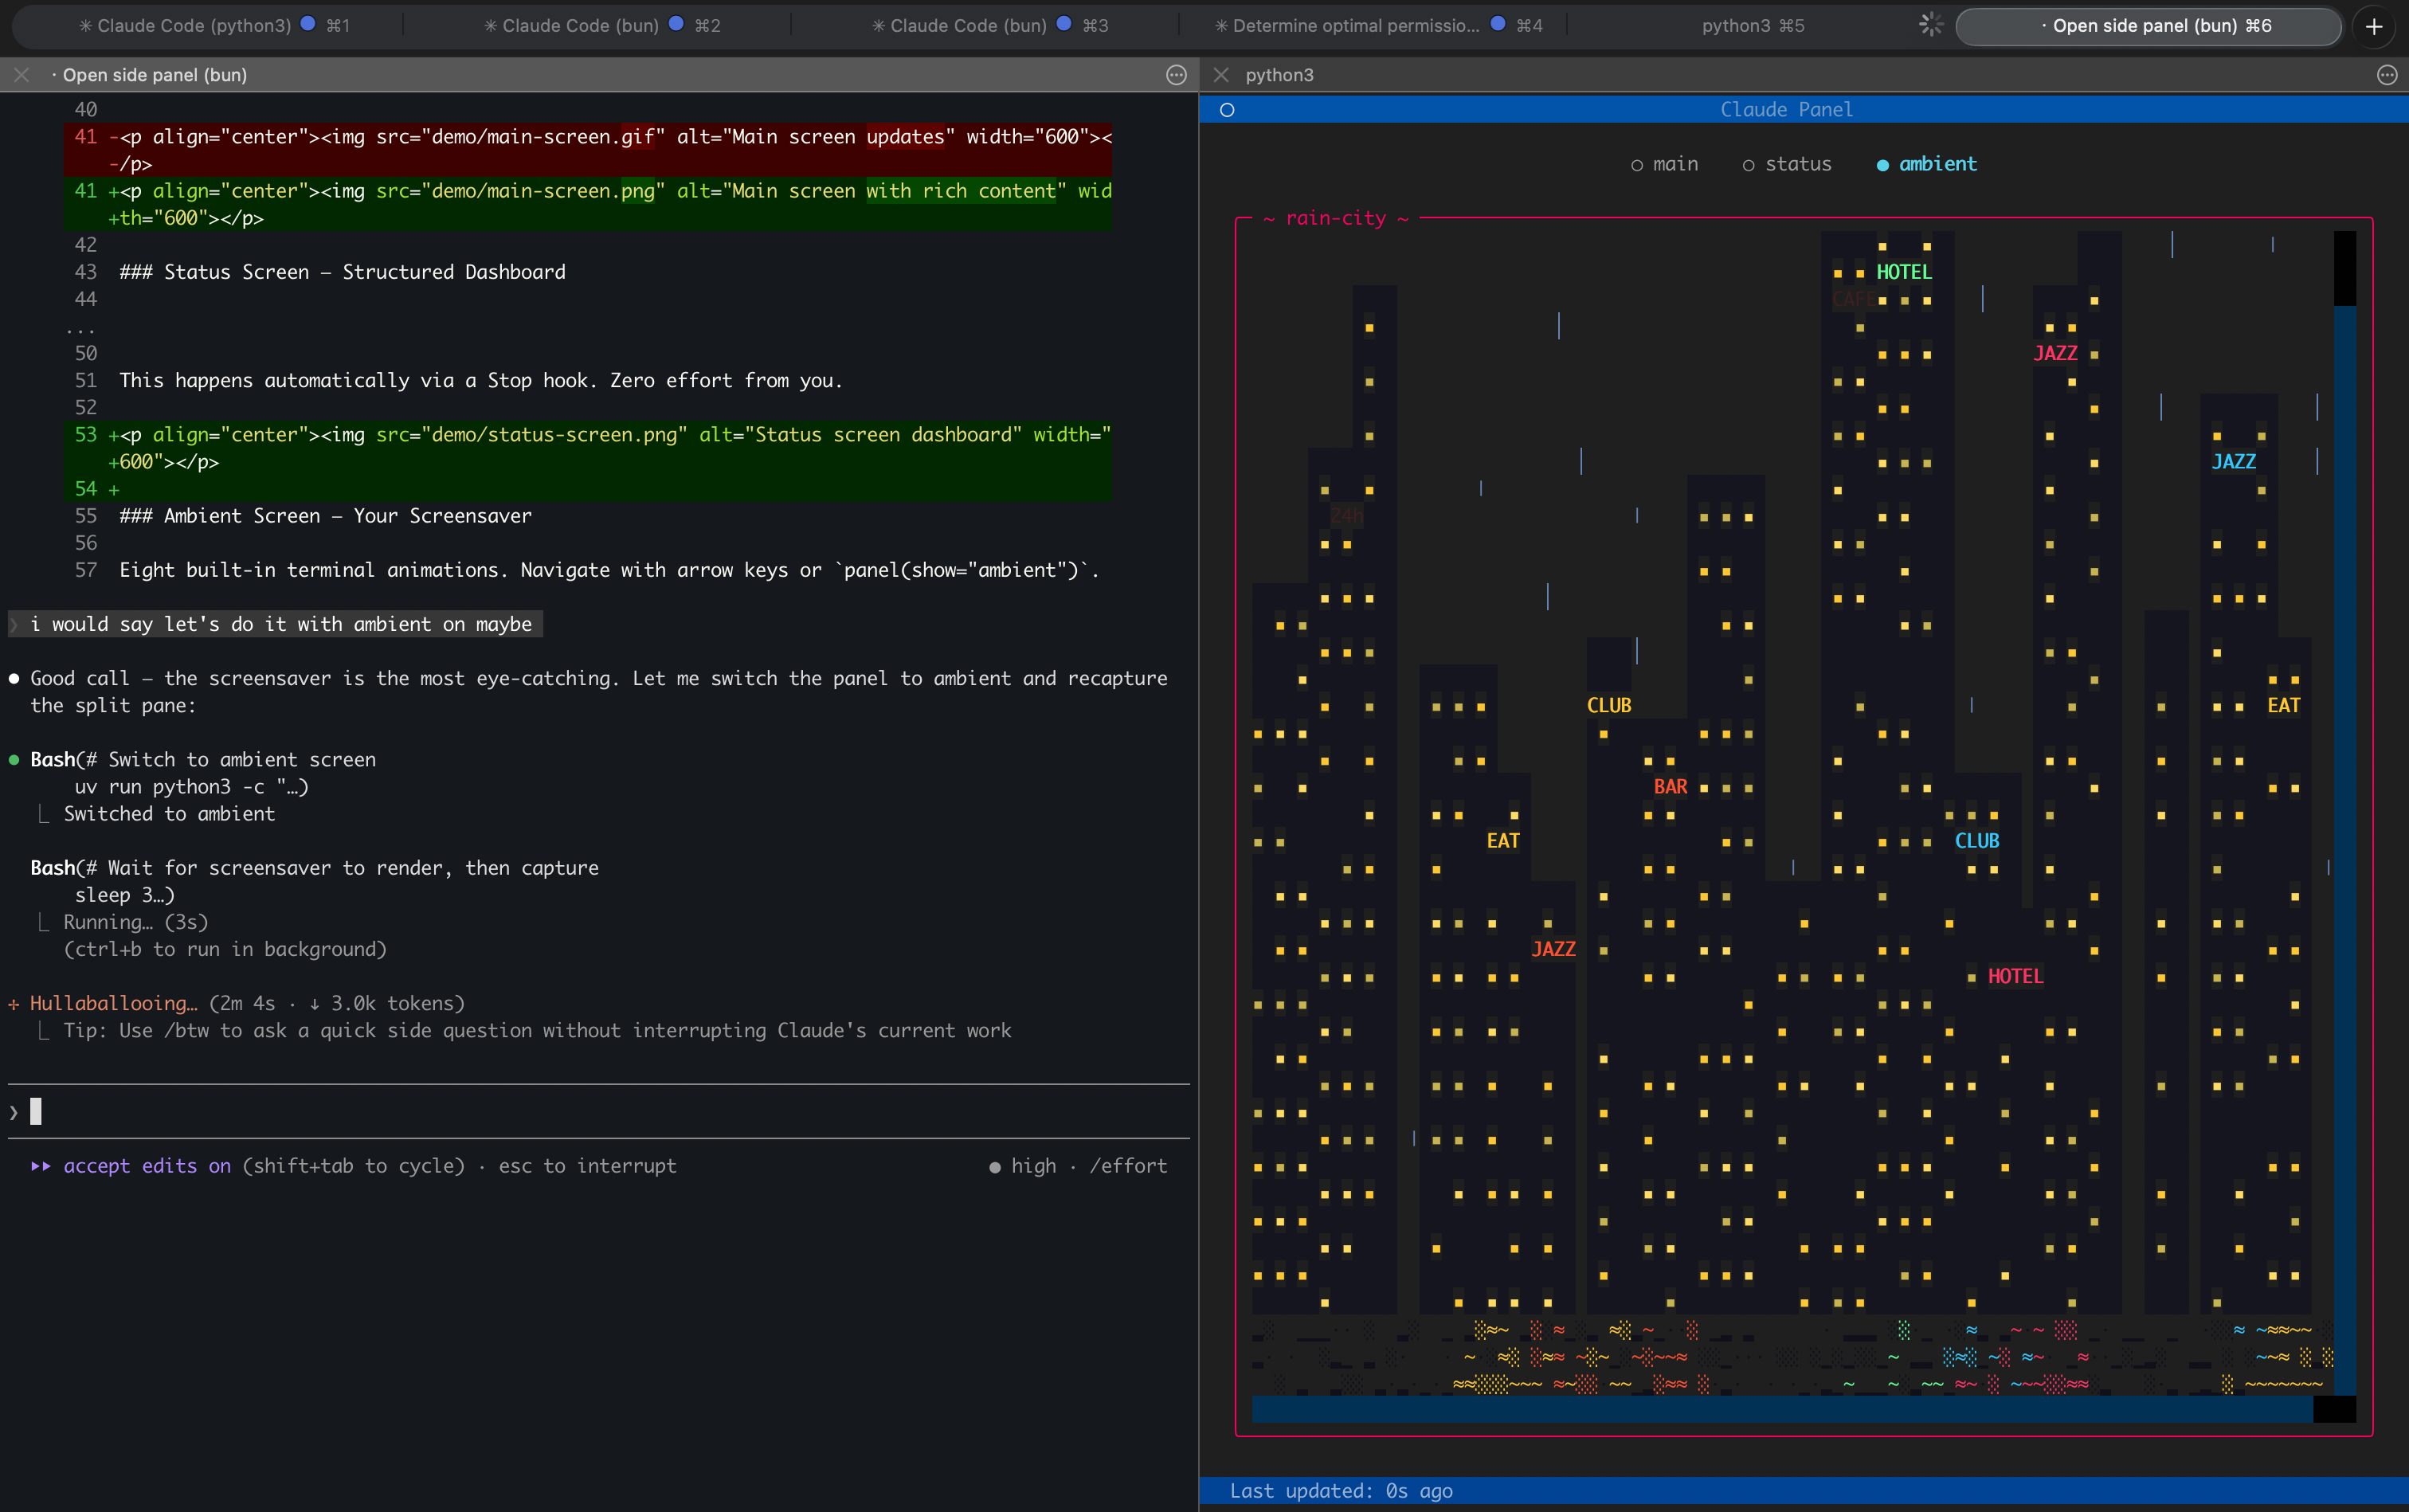
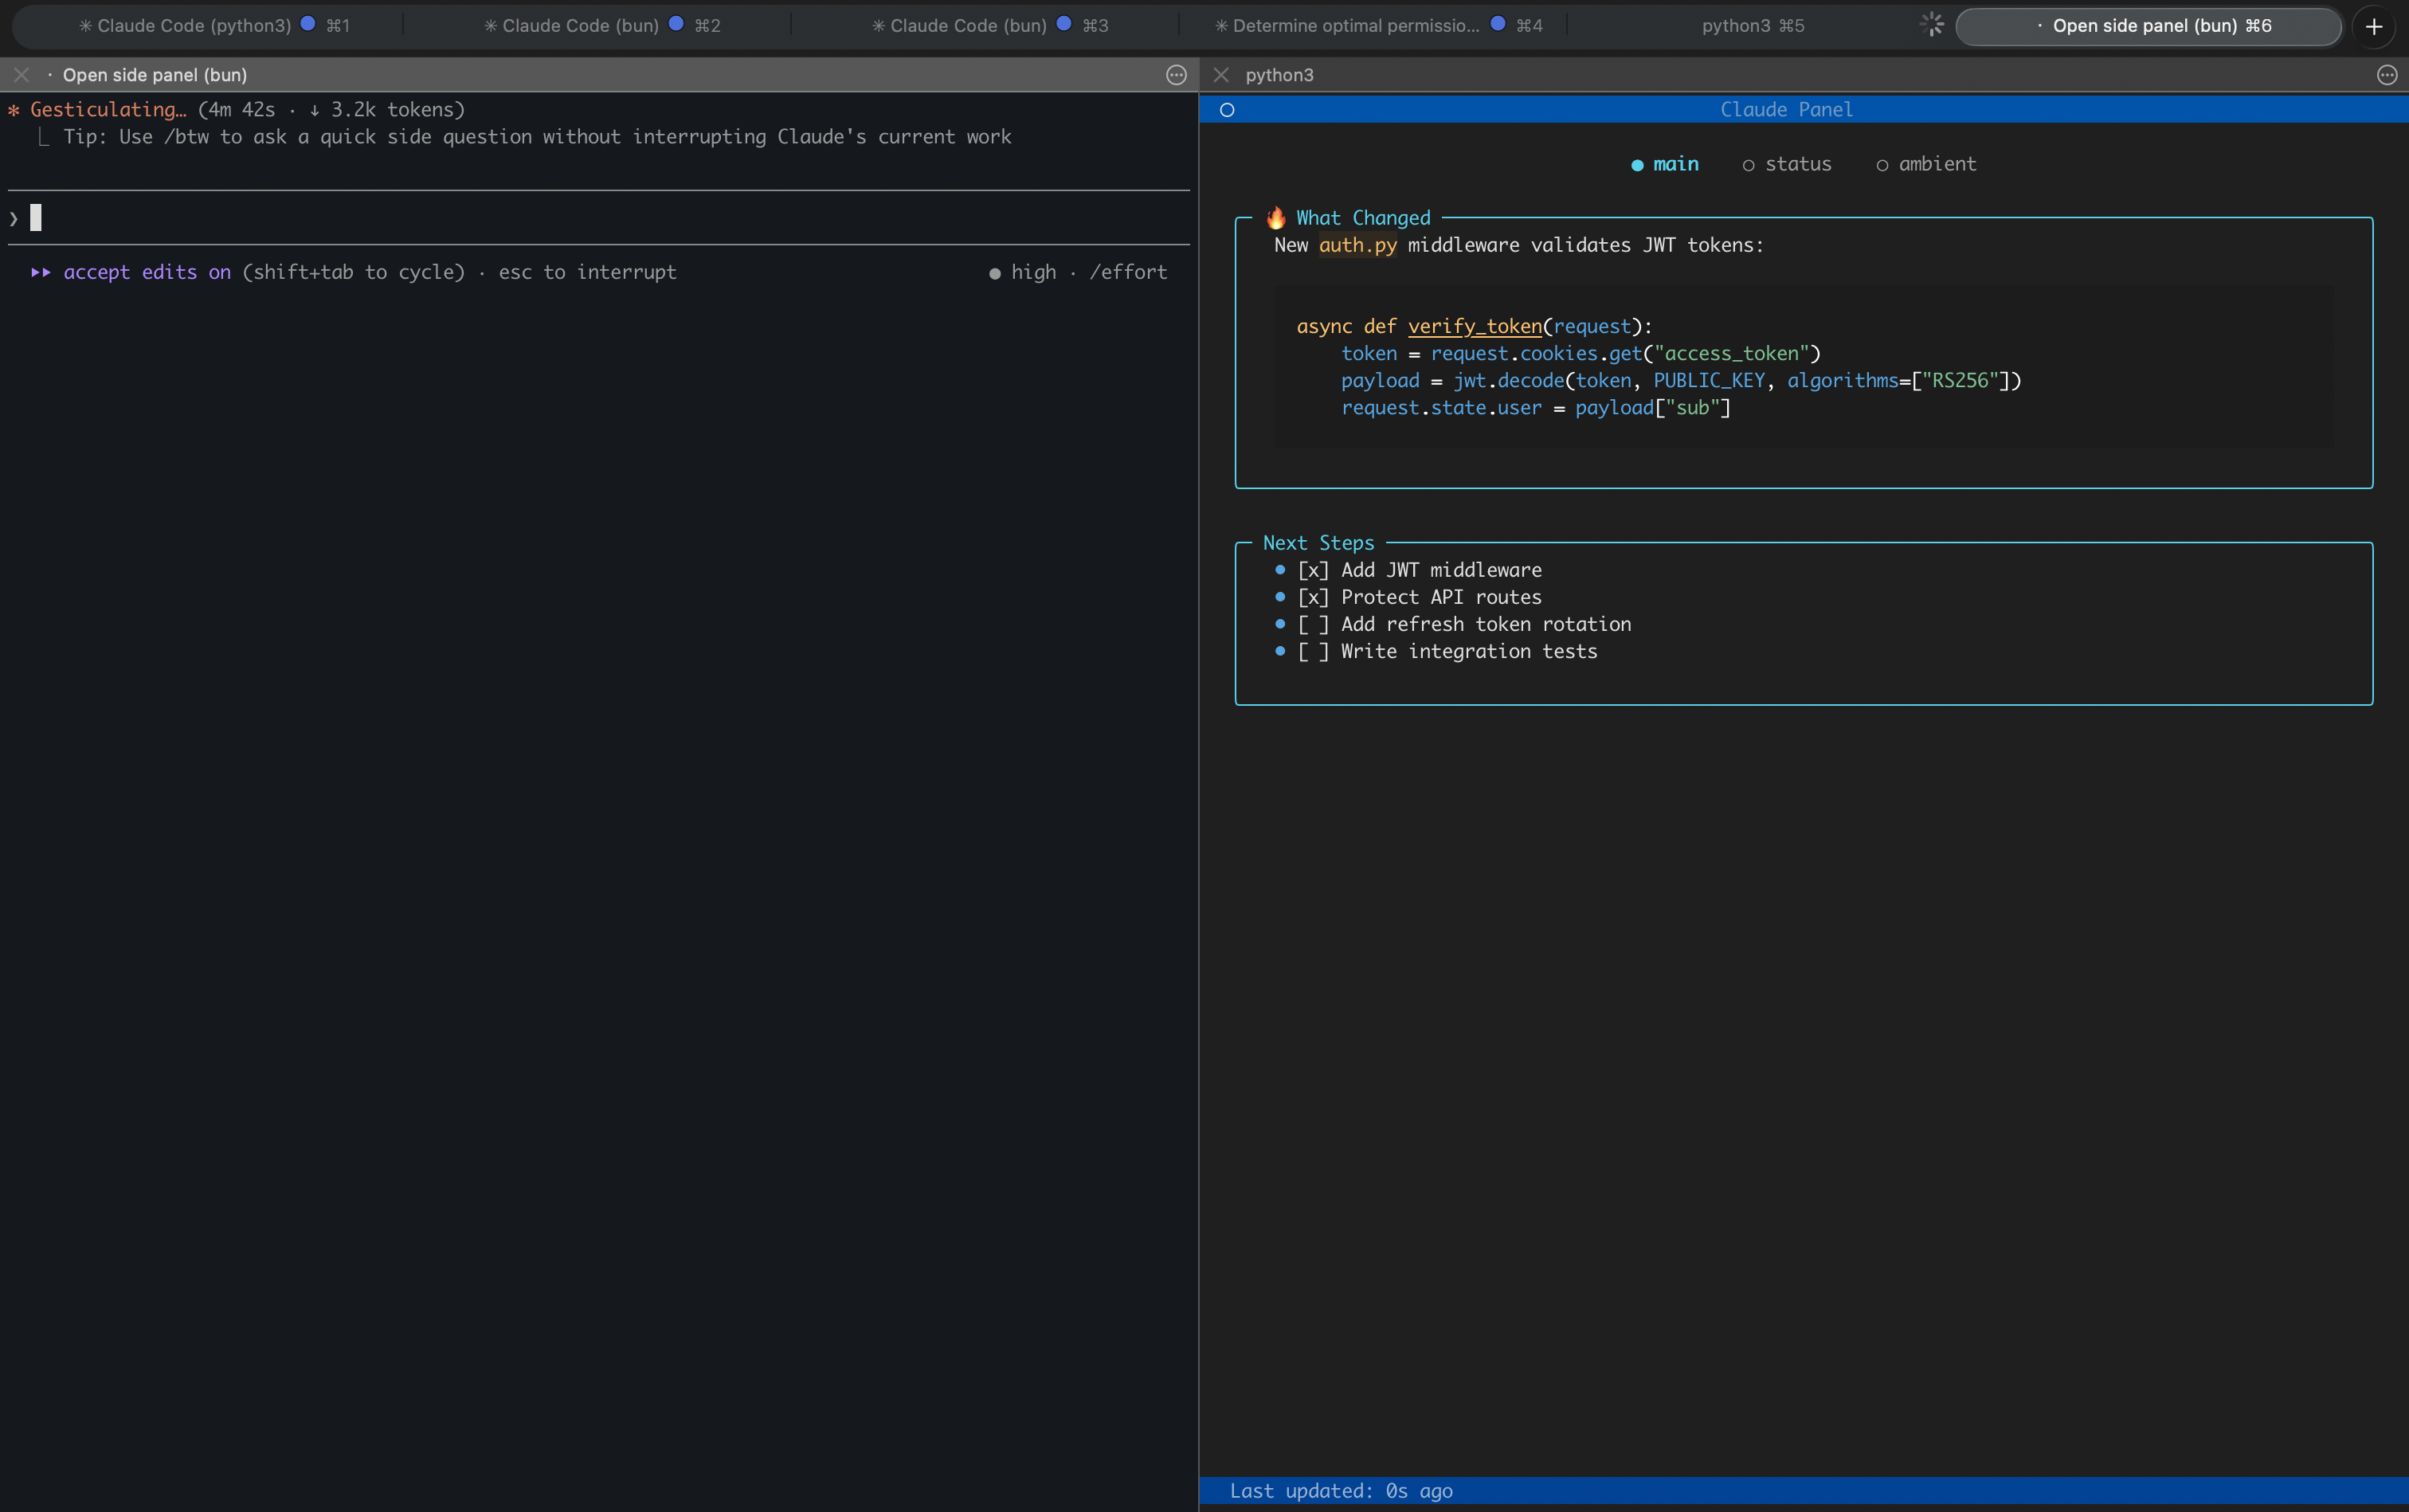
docs: hero screenshot with main screen content, animated screensaver GIFs, clean layout

diff --git a/README.md b/README.md
@@ -11,69 +11,36 @@
   <a href="https://github.com/alex-radaev/claude-panel/stargazers"><img alt="Stars" src="https://img.shields.io/github/stars/alex-radaev/claude-panel"></a>
 </p>
 
-<img align="right" width="45%" src="demo/screensavers.gif" alt="Ambient screensaver — rain-city">
-
-**Claude Panel** is a persistent TUI that sits next to your Claude Code terminal.
-
-Claude decides what to show on the panel — summaries, explanations, code highlights, progress checklists, architecture diagrams, or just a mood emoji. It's a second communication channel that doesn't add noise to the conversation.
-
-- **Main screen** — Claude's canvas. Whatever it thinks is useful right now.
-- **Status screen** — auto-updating dashboard: current task, files changed, decisions.
-- **Ambient screen** — your choice of terminal screensaver.
-
-Two screens managed by Claude. One screen managed by you.
-
-<br clear="right"/>
+<p align="center"><img src="demo/split-pane.png" alt="Claude Code on the left, Panel showing code and progress on the right" width="900"></p>
+<p align="center"><em>Claude Code on the left. Panel showing what changed and next steps on the right.</em></p>
 
 ---
 
-<p align="center"><img src="demo/split-pane.png" alt="Claude Code on the left, Panel with ambient screensaver on the right" width="900"></p>
-<p align="center"><em>Claude Code on the left, Panel with rain-city screensaver on the right</em></p>
-
-## How It Works
-
 Claude Code is great, but the conversation scrolls fast. What was the last decision? Which files changed? What's Claude working on right now?
 
-Claude Panel answers all of that **automatically**. No manual commands needed:
+**Claude Panel** is a persistent TUI that sits next to your terminal. Claude decides what to show — code highlights, explanations, progress checklists, architecture diagrams, or a mood emoji. It's a second communication channel that doesn't add noise to the conversation.
 
-1. **After every response**, a lightweight AI curator (Haiku) reads the conversation and updates the **status screen** — current task, files touched, decisions made.
-2. **Claude spawns background agents** that update the **main screen** with whatever content is worth pinning — code snippets, diagrams, mood, next steps. Zero conversation noise.
-3. **The viewer polls** the state file every 300ms and re-renders instantly.
+## Three Screens
 
-### Main Screen — Claude's Canvas
+| Screen | Managed by | What it shows |
+|--------|-----------|---------------|
+| **Main** | **Claude** | Whatever Claude thinks is useful right now — code snippets, explanations, diagrams, progress checklists, mood emoji. Full creative control. |
+| **Status** | **Claude** (AI curator) | Structured dashboard: current task, files changed, decisions made. Auto-updates after every response. |
+| **Ambient** | **You** | Terminal screensaver of your choice. Plays when nothing else needs your attention. |
 
-<img align="right" width="45%" src="demo/main-screen.png" alt="Main screen with rich content sections">
+**Claude manages the content, you manage the screensaver.** The main and status screens update automatically — Claude reads the conversation, decides what's worth pinning on screen, and writes it. No manual commands needed.
 
-Claude uses this screen to show you whatever is most relevant:
-
-- Working on auth? The key function signature and a fire emoji
-- Debugging? The error message and current hypothesis
-- Multi-step task? A progress checklist with checked items
-- Just chatting? A mood emoji that matches the vibe
-
-Claude has full creative control. It picks the content, the format, and when to update.
-
-<br clear="right"/>
-
-### Status Screen — Structured Dashboard
-
-<img align="right" width="45%" src="demo/status-screen.png" alt="Status screen with task, files, decisions">
-
-Three fields, auto-updated after every Claude response:
-
-- **Current Task** — what Claude is working on right now
-- **Files Changed** — which files were touched and why
-- **Decisions** — non-obvious choices made and the reasoning
-
-This runs via a Stop hook + Haiku LLM. Zero effort from you.
-
-<br clear="right"/>
-
-### Ambient Screen — Your Screensaver
+## Ambient Screensavers
 
 Eight built-in terminal animations. Navigate with arrow keys or `panel(show="ambient")`.
 
-`rain-city` | `tokyo-drift` | `city-lights` | `matrix` | `noir` | `banquet` | `dvd-bounce` | `space-flight`
+<p align="center"><img src="demo/screensaver-space-flight.gif" alt="space-flight screensaver" width="400"></p>
+<p align="center"><em>space-flight</em></p>
+
+<p align="center"><img src="demo/screensaver-tokyo-drift.gif" alt="tokyo-drift screensaver" width="400"></p>
+<p align="center"><em>tokyo-drift</em></p>
+
+Also available: `rain-city` | `city-lights` | `matrix` | `noir` | `banquet` | `dvd-bounce`
 
 Screensavers are plain Python scripts that draw to a Rich canvas. [Creating your own takes ~10 lines.](CONTRIBUTING.md#creating-a-screensaver)
 
@@ -124,7 +91,7 @@ panel(screensaver="tokyo-drift")   # change screensaver
 | `<-` `->` | Cycle screens |
 | `c` | Clear panel |
 
-## Architecture
+## How It Works
 
 ```
  Claude Code session              iTerm2 Split Pane
@@ -140,6 +107,10 @@ panel(screensaver="tokyo-drift")   # change screensaver
                      state.json
             ~/.claude-panel/sessions/<id>/
 ```
+
+1. **Claude responds** — a Stop hook runs the AI curator (Haiku). It reads the conversation, decides what changed, and updates the **status screen**.
+2. **Claude spawns a background agent** — updates the **main screen** with whatever content is worth showing. Zero conversation noise.
+3. **The viewer polls** the state file every 300ms and re-renders instantly.
 
 **Session isolation:** Each Claude Code session gets its own state. Run multiple sessions — they don't interfere. The viewer tracks whichever session is active.
 